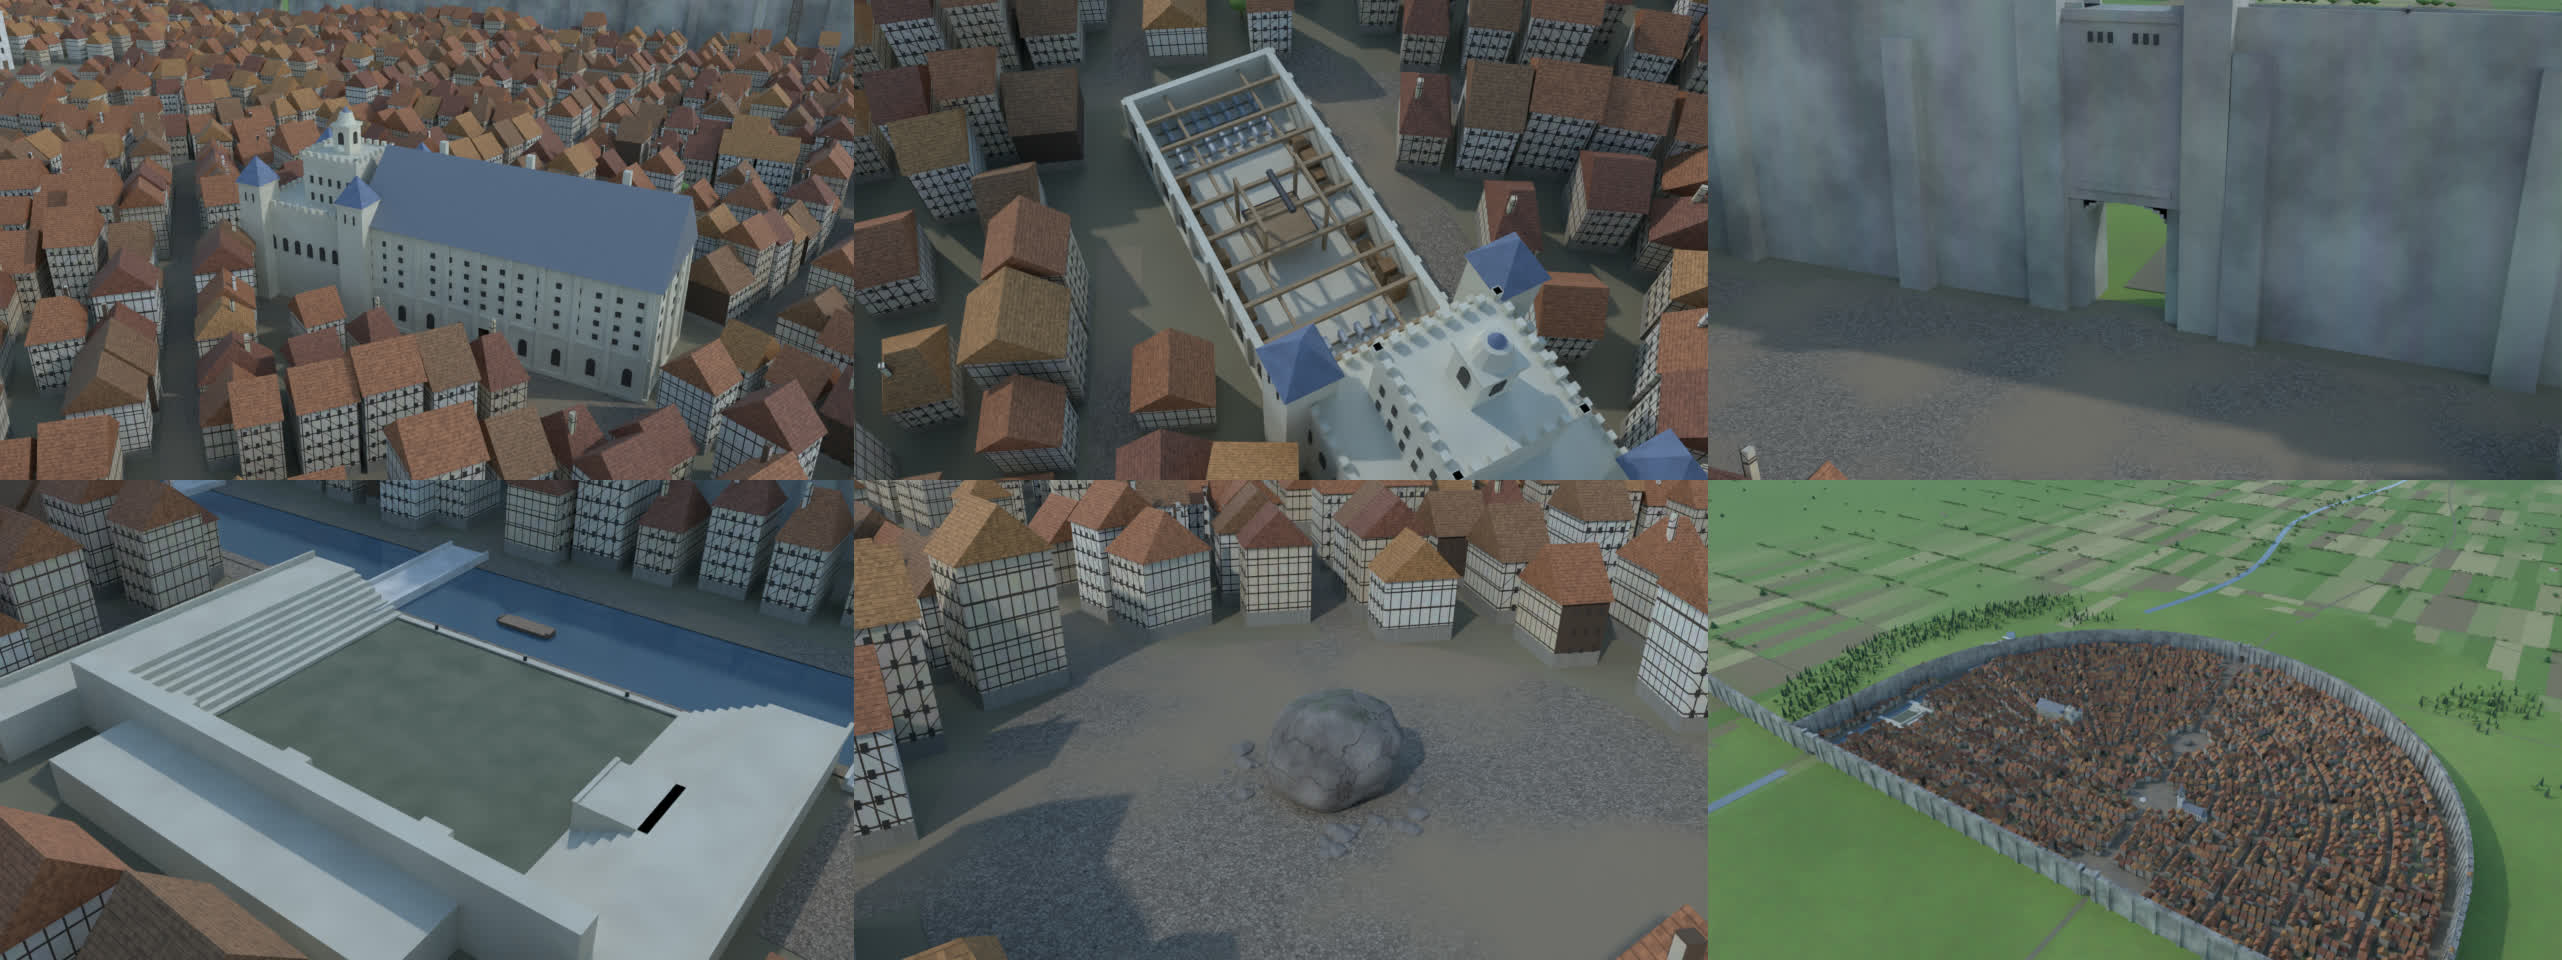
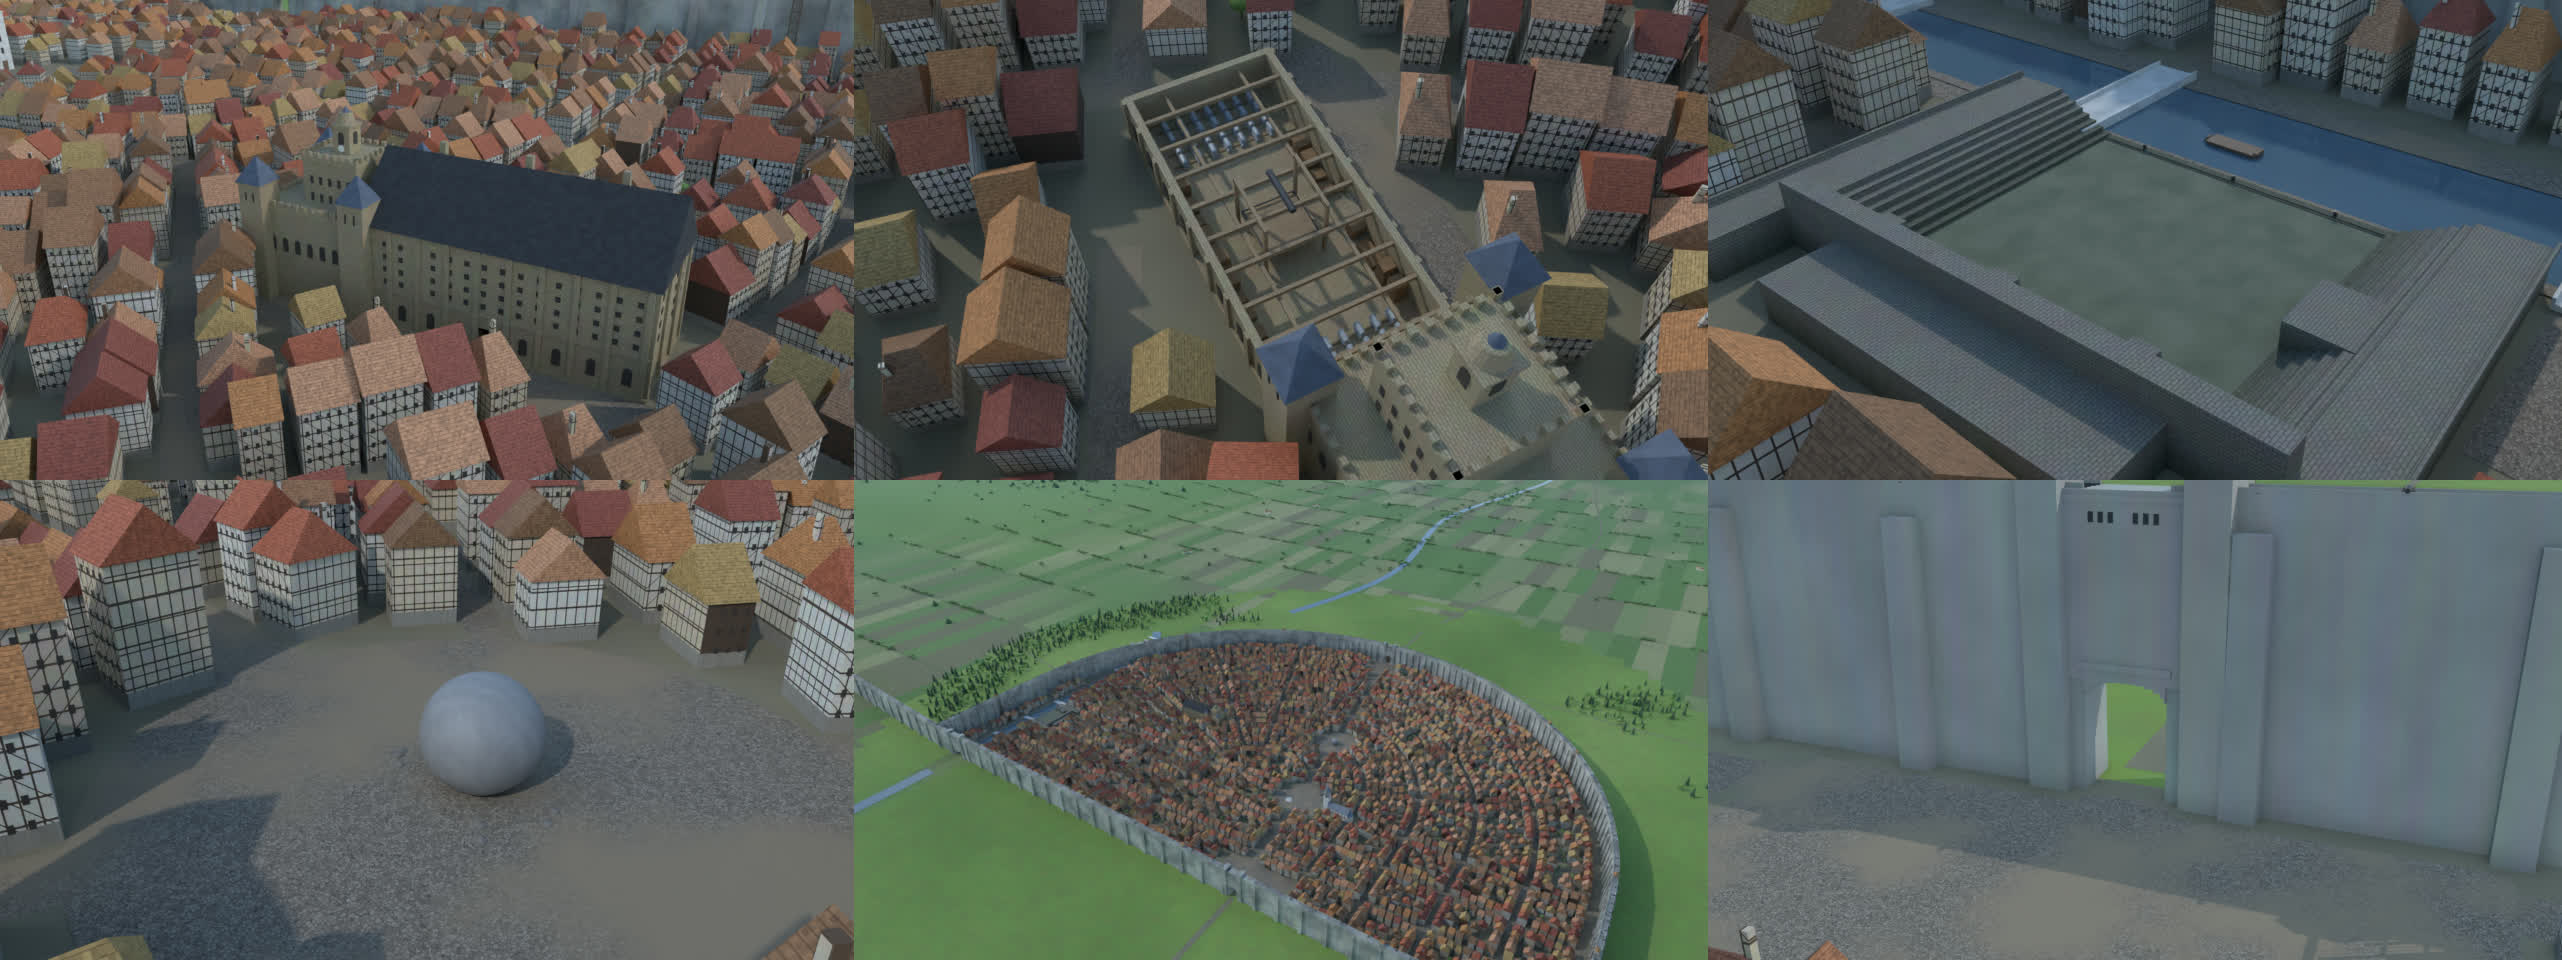
Trost set QA: sandstone HQ with dark slate roof, damp mossy cannon basin, round 14 m boulder, varied roof colours

diff --git a/timelapse3d/aot/trost.py b/timelapse3d/aot/trost.py
@@ -36,7 +36,7 @@ API (module `trost`; read the constants after import, call the functions after b
               terrace_n / terrace_s (x0, x1, y0, y1, z), quay, boat).  A sunken stone dock beside the canal (refs
               trost_cannon_canal / trost_armin_salute_steps); object TrostCannonBasin, TrostBoat
   ground_z(x, y) includes the basin terraces / steps (basin_z); walkable() includes the basin
-  BOULDER     (-68, -450, 0)     bottom centre of the boulder; BOULDER_SIZE (16, 15, 13); object "TrostBoulder"; boulder_mesh(origin="center") for carry
+  BOULDER     (-68, -450, 0)     bottom centre of the boulder; BOULDER_SIZE (14, 14, 13.6), near-sphere; object "TrostBoulder"; boulder_mesh(origin="center") for carry
   BOULDER_SQUARE (-68, -450, 40); BOULDER_ROUTE  polyline boulder -> avenue -> outer gate (Eren's carry)
   AVENUE      polyline outer gate -> inner gate (straight main street, hw 8); EVAC_ROUTE plaza -> inner gate
   INNER_GATE_SQUARE (x0, y0, x1, y1); OUTER_GATE_SQUARE (x, y, r)
@@ -88,7 +88,7 @@ WATER_GATE_ROSE = (CANAL_X, 0.0)
 WATER_GATE_OUTER = (CANAL_X, district_ymin(CANAL_X))
 PLAZA = (-100.0, -250.0, 42.0)
 BOULDER = (-68.0, -450.0, 0.0)
-BOULDER_SIZE = (16.0, 15.0, 13.0)     # bigger than a house: the 15 m Attack Titan hunches under it
+BOULDER_SIZE = (14.0, 14.0, 13.6)     # a near-perfect grey sphere ~14 m across (ep 12-13), bigger than the houses
 BOULDER_SQUARE = (-68.0, -450.0, 44.0)
 INNER_GATE_SQUARE = (INNER_GATE[0] - 60, -70.0, INNER_GATE[0] + 60, -12.0)
 OUTER_GATE_SQUARE = (0.0, OUTER_GATE[1] + 38, 38.0)
@@ -642,7 +642,11 @@ def build_basin(M):
     L.box(bm, (X1 - 0.6, (Y0 + Y1) / 2, 0.25), (1.2, Y1 - Y0, 0.5), mi=0)
     for yy in (Y0 + 8, (Y0 + Y1) / 2, Y1 - 8):
         L.cyl(bm, (X1 - 0.8, yy, 0.4), (X1 - 0.8, yy, 1.3), 0.35, 0.28, seg=8, mi=2)
-    ob = L.obj_from_bm("TrostCannonBasin", bm, [M["hq_stone"], M["moss_floor"], M["iron"]])
+    for side in (1, -1):                                                               # dark step nosings
+        for k in range(_BSTEP_N):
+            yn = (Y1 + k * _BSTEP_D) if side > 0 else (Y0 - k * _BSTEP_D)
+            L.box(bm, ((X0 + X1) / 2, yn, (k + 1) * _BSTEP_H - 0.03), (span, 0.14, 0.1), mi=3)
+    ob = L.obj_from_bm("TrostCannonBasin", bm, [M["basin_stone"], M["moss_floor"], M["iron"], M["step_edge"]])
     # the boat at the quay
     bb = bmesh.new()
     L.box(bb, (0, 0, 0.55), (9.0, 2.6, 0.9), taper=(1.0, 1.25), mi=0)
@@ -688,6 +692,92 @@ def build_church(M):
     return ob
 
 # ---------------------------------------------------------------- the boulder
+def _uv_walls(N, Lk, tc):
+    """(x + y, z) from object coordinates: a wall-plane coordinate that works for walls facing x or y."""
+    sep = N.new("ShaderNodeSeparateXYZ"); Lk.new(tc.outputs["Object"], sep.inputs[0])
+    ad = N.new("ShaderNodeMath"); ad.operation = "ADD"; Lk.new(sep.outputs["X"], ad.inputs[0]); Lk.new(sep.outputs["Y"], ad.inputs[1])
+    cb = N.new("ShaderNodeCombineXYZ"); Lk.new(ad.outputs[0], cb.inputs["X"]); Lk.new(sep.outputs["Z"], cb.inputs["Y"])
+    # horizontal faces (tops of steps, terraces, roofs) use (x, y) so the blocks don't smear into plank stripes
+    geo = N.new("ShaderNodeNewGeometry"); sn = N.new("ShaderNodeSeparateXYZ"); Lk.new(geo.outputs["Normal"], sn.inputs[0])
+    ab = N.new("ShaderNodeMath"); ab.operation = "ABSOLUTE"; Lk.new(sn.outputs["Z"], ab.inputs[0])
+    gt = N.new("ShaderNodeMath"); gt.operation = "GREATER_THAN"; gt.inputs[1].default_value = 0.6; Lk.new(ab.outputs[0], gt.inputs[0])
+    mx = N.new("ShaderNodeMix"); mx.data_type = "VECTOR"
+    Lk.new(gt.outputs[0], mx.inputs["Factor"]); Lk.new(cb.outputs[0], mx.inputs[4]); Lk.new(tc.outputs["Object"], mx.inputs[5])
+    return mx.outputs[1], sep.outputs["Z"]
+
+def stone_block_mat(name, base, base2, mortar, scale=0.6, damp=0.0, moss=0.0):
+    """Procedural stone blocks (sandstone / old dock stone): running-bond blocks ~0.8 x 0.4 m with per-block colour
+    variation, grime noise and mortar bump.  damp > 0 darkens the lower walls (object z < ~4 m) with vertical moss
+    streaks (the cannon basin, ref trost_cannon_canal_ref.png)."""
+    m = bpy.data.materials.new(name); m.use_nodes = True
+    nt = m.node_tree; N = nt.nodes; Lk = nt.links
+    bsdf = N["Principled BSDF"]; bsdf.inputs["Roughness"].default_value = 0.9
+    tc = N.new("ShaderNodeTexCoord")
+    uv, z = _uv_walls(N, Lk, tc)
+    br = N.new("ShaderNodeTexBrick"); br.inputs["Scale"].default_value = scale
+    br.inputs["Color1"].default_value = (*base, 1); br.inputs["Color2"].default_value = (*base2, 1)
+    br.inputs["Mortar"].default_value = (*mortar, 1); br.inputs["Mortar Size"].default_value = 0.025
+    br.inputs["Bias"].default_value = 0.0; br.offset = 0.5
+    Lk.new(uv, br.inputs["Vector"])
+    nz = N.new("ShaderNodeTexNoise"); nz.inputs["Scale"].default_value = 0.35; nz.inputs["Detail"].default_value = 6
+    Lk.new(tc.outputs["Object"], nz.inputs["Vector"])
+    gr = N.new("ShaderNodeMix"); gr.data_type = "RGBA"; gr.blend_type = "MULTIPLY"; gr.inputs["Factor"].default_value = 0.35
+    Lk.new(br.outputs["Color"], gr.inputs["A"]); Lk.new(nz.outputs["Color"], gr.inputs["B"])
+    col = gr.outputs["Result"]
+    if damp > 0:
+        dz = N.new("ShaderNodeMapRange"); dz.inputs["From Min"].default_value = 4.5; dz.inputs["From Max"].default_value = 0.5
+        Lk.new(z, dz.inputs["Value"])
+        st = N.new("ShaderNodeVectorMath"); st.operation = "MULTIPLY"; st.inputs[1].default_value = (0.9, 0.9, 0.06)
+        Lk.new(tc.outputs["Object"], st.inputs[0])
+        sn = N.new("ShaderNodeTexNoise"); sn.inputs["Scale"].default_value = 1.4; sn.inputs["Detail"].default_value = 4
+        Lk.new(st.outputs[0], sn.inputs["Vector"])
+        streak = N.new("ShaderNodeMath"); streak.operation = "MULTIPLY"; Lk.new(sn.outputs["Fac"], streak.inputs[0])
+        Lk.new(dz.outputs["Result"], streak.inputs[1])
+        fac = N.new("ShaderNodeMath"); fac.operation = "MULTIPLY"; fac.inputs[1].default_value = damp * 1.6
+        Lk.new(streak.outputs[0], fac.inputs[0])
+        dk = N.new("ShaderNodeMix"); dk.data_type = "RGBA"; dk.blend_type = "MULTIPLY"
+        Lk.new(fac.outputs[0], dk.inputs["Factor"]); Lk.new(col, dk.inputs["A"]); dk.inputs["B"].default_value = (0.25, 0.27, 0.2, 1)
+        col = dk.outputs["Result"]
+        if moss > 0:
+            mf = N.new("ShaderNodeMath"); mf.operation = "MULTIPLY"; mf.inputs[1].default_value = moss
+            Lk.new(fac.outputs[0], mf.inputs[0])
+            mm = N.new("ShaderNodeMix"); mm.data_type = "RGBA"
+            Lk.new(mf.outputs[0], mm.inputs["Factor"]); Lk.new(col, mm.inputs["A"]); mm.inputs["B"].default_value = (0.06, 0.09, 0.035, 1)
+            col = mm.outputs["Result"]
+    Lk.new(col, bsdf.inputs["Base Color"])
+    bp = N.new("ShaderNodeBump"); bp.inputs["Strength"].default_value = 0.3
+    Lk.new(br.outputs["Fac"], bp.inputs["Height"]); Lk.new(bp.outputs["Normal"], bsdf.inputs["Normal"])
+    return m
+
+def marble_mat(name="TrostBoulderMarble"):
+    """Smooth grey stone with a subtle marbled surface (the anime boulder: a near-perfect grey sphere)."""
+    m = bpy.data.materials.new(name); m.use_nodes = True
+    nt = m.node_tree; N = nt.nodes; Lk = nt.links
+    bsdf = N["Principled BSDF"]; bsdf.inputs["Roughness"].default_value = 0.55
+    tc = N.new("ShaderNodeTexCoord")
+    nz = N.new("ShaderNodeTexNoise"); nz.inputs["Scale"].default_value = 0.25; nz.inputs["Detail"].default_value = 8
+    nz.inputs["Distortion"].default_value = 2.5
+    Lk.new(tc.outputs["Object"], nz.inputs["Vector"])
+    wv = N.new("ShaderNodeTexWave"); wv.inputs["Scale"].default_value = 0.12; wv.inputs["Distortion"].default_value = 9.0
+    wv.inputs["Detail"].default_value = 6
+    Lk.new(tc.outputs["Object"], wv.inputs["Vector"])
+    rp = N.new("ShaderNodeValToRGB"); e = rp.color_ramp.elements
+    e[0].position, e[0].color = 0.25, (0.26, 0.26, 0.265, 1)
+    e[1].position, e[1].color = 0.8, (0.34, 0.335, 0.33, 1)
+    mx = N.new("ShaderNodeMath"); mx.operation = "ADD"
+    Lk.new(nz.outputs["Fac"], mx.inputs[0]); Lk.new(wv.outputs["Fac"], mx.inputs[1])
+    wq = N.new("ShaderNodeMath"); wq.operation = "MULTIPLY"; wq.inputs[1].default_value = 0.25    # faint veins only
+    Lk.new(wv.outputs["Fac"], wq.inputs[0])
+    mx2 = N.new("ShaderNodeMath"); mx2.operation = "ADD"; Lk.new(nz.outputs["Fac"], mx2.inputs[0]); Lk.new(wq.outputs[0], mx2.inputs[1])
+    hf = N.new("ShaderNodeMath"); hf.operation = "MULTIPLY"; hf.inputs[1].default_value = 0.8
+    Lk.new(mx2.outputs[0], hf.inputs[0]); Lk.new(hf.outputs[0], rp.inputs["Fac"])
+    Lk.new(rp.outputs["Color"], bsdf.inputs["Base Color"])
+    fn = N.new("ShaderNodeTexNoise"); fn.inputs["Scale"].default_value = 6.0; fn.inputs["Detail"].default_value = 4
+    Lk.new(tc.outputs["Object"], fn.inputs["Vector"])
+    bp = N.new("ShaderNodeBump"); bp.inputs["Strength"].default_value = 0.08
+    Lk.new(fn.outputs["Fac"], bp.inputs["Height"]); Lk.new(bp.outputs["Normal"], bsdf.inputs["Normal"])
+    return m
+
 def rock_mat(name="TrostRock"):
     """Rough boulder shading: grey-brown mottling, dark crevices along Voronoi cracks, moss on up-facing surfaces,
     bump from the cracks + fine grain (design bible 3.6: albedo ~#7a706a, fracture faces lighter)."""
@@ -739,26 +829,18 @@ def rock_mat(name="TrostRock"):
     return m
 
 def boulder_mesh(name="TrostBoulderMesh", origin="bottom"):
-    """Lumpy flattened boulder of BOULDER_SIZE: multi-octave displacement plus a few planar fracture cuts
-    (flat facets) and a flat seat. origin = "bottom" (bottom centre) or "center"."""
+    """The anime boulder: an almost perfectly round, smooth grey near-sphere (slight irregularity only, a small flat
+    seat where it rests). origin = "bottom" (bottom centre) or "center"."""
     bm = bmesh.new()
     bmesh.ops.create_icosphere(bm, subdivisions=4, radius=1.0)
     rx, ry, rz = BOULDER_SIZE[0] / 2, BOULDER_SIZE[1] / 2, BOULDER_SIZE[2] / 2
-    rnd = random.Random(17)
-    cuts = [(Vector((rnd.uniform(-1, 1), rnd.uniform(-1, 1), rnd.uniform(-0.3, 1))).normalized(), rnd.uniform(0.78, 0.9)) for _ in range(6)]
     for v in bm.verts:
         n = v.co.normalized()
-        d = (1.0 + 0.20 * noise.noise(n * 1.2 + Vector((3, 1, 7))) + 0.09 * noise.noise(n * 3.1 + Vector((1, 9, 2)))
-             + 0.04 * noise.noise(n * 7.5 + Vector((4, 2, 8))) + 0.015 * noise.noise(n * 18 + Vector((7, 3, 1))))
-        p = n * d
-        for cn, cd in cuts:                                   # fracture planes: clamp to flat facets
-            k = p.dot(cn)
-            if k > cd:
-                p -= cn * (k - cd) * 0.85
-        v.co = Vector((p.x * rx, p.y * ry, p.z * rz))
-        if v.co.z < -rz * 0.72:
-            v.co.z = -rz * 0.72 + 0.05 * noise.noise(v.co * 0.4)
-    zoff = rz * 0.72 - 0.4 if origin == "bottom" else -0.0
+        d = 1.0 + 0.025 * noise.noise(n * 1.4 + Vector((3, 1, 7))) + 0.008 * noise.noise(n * 4.0 + Vector((1, 9, 2)))
+        v.co = Vector((n.x * rx * d, n.y * ry * d, n.z * rz * d))
+        if v.co.z < -rz * 0.93:
+            v.co.z = -rz * 0.93                                          # small flat seat
+    zoff = rz * 0.93 - 0.15 if origin == "bottom" else 0.0
     for v in bm.verts:
         v.co.z += zoff
     for f in bm.faces:
@@ -774,8 +856,8 @@ def build_boulder(M):
     ob.rotation_euler.z = math.radians(28)
     rb = bmesh.new()                                                    # rubble and loose rocks around its seat
     rnd = random.Random(13)
-    for i in range(34):
-        a = rnd.uniform(0, math.tau); r = rnd.uniform(8.5, 14.0); s = rnd.uniform(0.4, 1.6)
+    for i in range(14):
+        a = rnd.uniform(0, math.tau); r = rnd.uniform(8.0, 12.0); s = rnd.uniform(0.3, 0.9)
         c = bmesh.ops.create_icosphere(rb, subdivisions=1, radius=s)
         for v in c["verts"]:
             v.co.z *= 0.6
@@ -949,16 +1031,22 @@ def build_set(M, year):
     t0 = time.time()
     _install()
     sc = bpy.context.scene
-    M["hq_stone"] = L.mat("HQStone", (0.50, 0.44, 0.32), 0.88, var=0.16, var_scale=0.15, color2=(0.58, 0.52, 0.39))
-    M["hq_slate"] = L.mat("HQSlate", (0.05, 0.055, 0.065), 0.9, var=0.12, var_scale=0.4)
-    M["roof_turret"] = L.mat("RoofTurret", (0.12, 0.16, 0.25), 0.55, var=0.1, var_scale=0.5)
+    M["hq_stone"] = stone_block_mat("HQSandstone", (0.50, 0.38, 0.21), (0.57, 0.44, 0.26), (0.26, 0.21, 0.14), scale=0.6)
+    M["hq_slate"] = L.mat("HQSlate", (0.028, 0.03, 0.034), 0.95, var=0.15, var_scale=0.6, color2=(0.045, 0.047, 0.05))
+    M["basin_stone"] = stone_block_mat("BasinStone", (0.27, 0.25, 0.20), (0.32, 0.29, 0.23), (0.12, 0.11, 0.09),
+                                       scale=0.55, damp=0.7, moss=0.6)
+    M["step_edge"] = L.mat("StepEdge", (0.10, 0.095, 0.08), 0.9)
+    for k, col in enumerate(((0.50, 0.21, 0.07), (0.42, 0.11, 0.05), (0.26, 0.13, 0.06), (0.30, 0.08, 0.05),
+                             (0.46, 0.29, 0.10), (0.55, 0.27, 0.14), (0.36, 0.17, 0.08))):
+        M[f"roof_t{k}"] = L.tile_roof_mat(f"RoofT{k}", col)
+    M["roof_turret"] = L.mat("RoofTurret", (0.09, 0.11, 0.15), 0.75, var=0.1, var_scale=0.5)
     M["clock"] = L.mat("ClockFace", (0.85, 0.82, 0.70), 0.6)
     M["moss_floor"] = L.mat("MossFloor", (0.11, 0.13, 0.08), 0.95, var=0.25, var_scale=0.18, color2=(0.20, 0.21, 0.14))
     M["plank"] = L.mat("Plank", (0.30, 0.20, 0.11), 0.8, var=0.2, var_scale=0.6)
     M["crate"] = L.mat("Crate", (0.26, 0.15, 0.07), 0.85, var=0.2, var_scale=0.9)
     M["gas"] = L.mat("GasTank", (0.42, 0.45, 0.48), 0.35)
     M["roof_flat"] = L.mat("RoofFlat", (0.33, 0.29, 0.25), 0.9, var=0.15, var_scale=0.1)
-    M["rock"] = rock_mat()
+    M["rock"] = marble_mat()
     M["rubble"] = L.mat("Rubble", (0.20, 0.18, 0.16), 0.95, var=0.2, var_scale=0.5)
     M["tarp"] = L.mat("Tarp", (0.45, 0.40, 0.28), 0.9)
     M["church_w"] = L.mat("ChurchWhite", (0.80, 0.76, 0.66), 0.85, var=0.1, var_scale=0.2)
@@ -968,12 +1056,12 @@ def build_set(M, year):
     build_lifts(M)
     hc = L.new_coll("HouseVariants")
     walls = ["plaster", "plaster_w", "plaster_o", "timber"]
-    roofs = ["roof_red", "roof_orange", "roof_brown", "roof_red", "roof_dark"]
+    roofs = [f"roof_t{k}" for k in range(7)]                    # orange / red / brown variety across Trost
     rnd = random.Random(8)
     widths = []
     for i in range(40):
         w = rnd.uniform(7.5, 11); d = rnd.uniform(11, 15); h = rnd.choice((11, 14, 14, 17, 17, 20))
-        me = L.house_mesh(f"TH{i}", w, d, h, d * 0.5, M, walls[i % 4], roofs[(i // 4) % 5], chimney=i % 3 == 0, hip=i % 6 == 0)
+        me = L.house_mesh(f"TH{i}", w, d, h, d * 0.5, M, walls[i % 4], roofs[(i * 3) % 7], chimney=i % 3 == 0, hip=i % 6 == 0)
         hc.objects.link(bpy.data.objects.new(f"TH{i}", me))
         widths.append((w, d))
     pts, ttrees = town_points(len(widths), widths)
